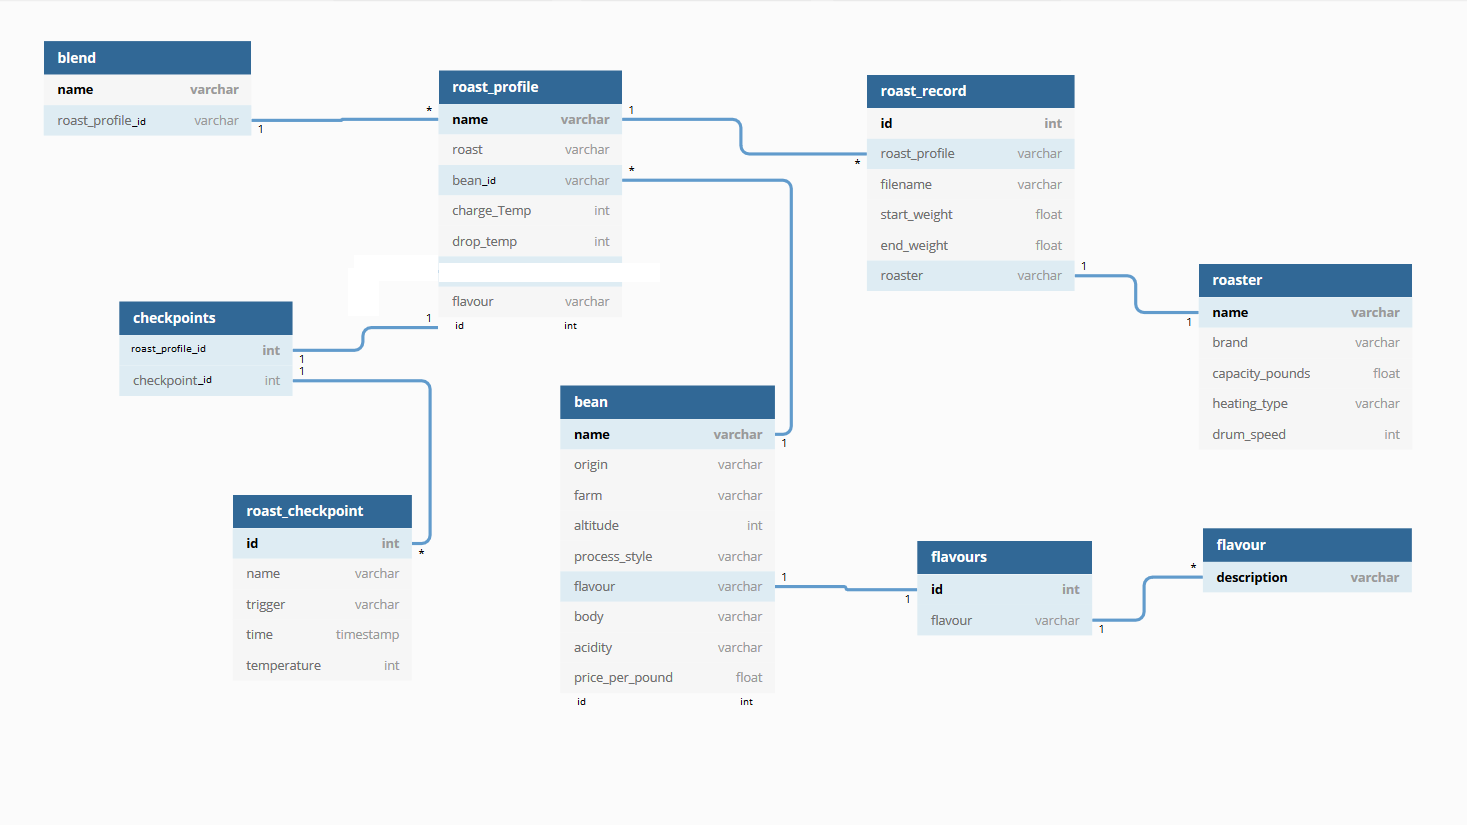
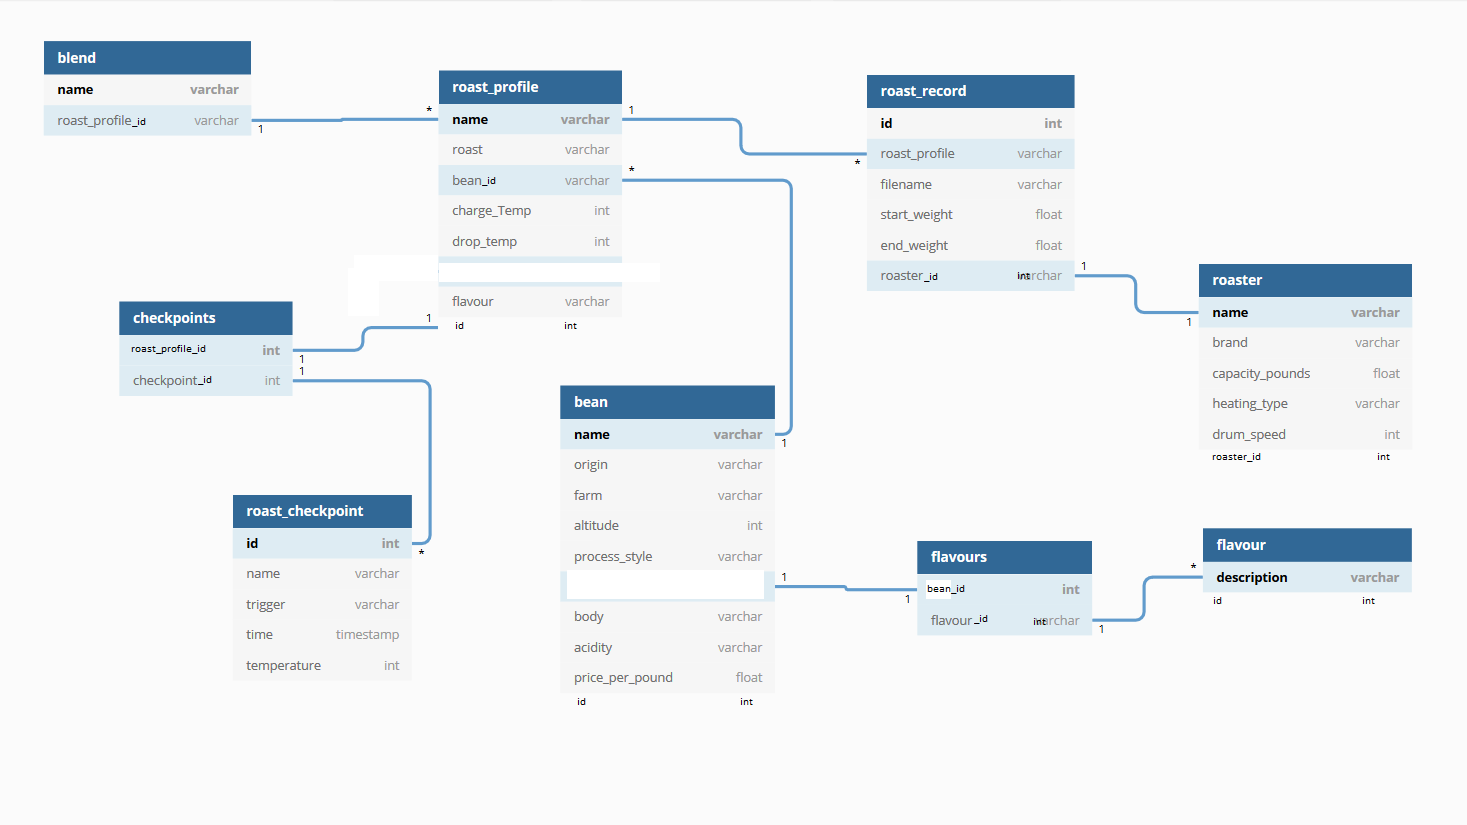
Added the function to add a Bean entry to database, and function to create List representing all Bean entries in database.

Changed region(s): [[0.3681, 0.6667, 0.5215, 0.7273], [0.6135, 0.697, 0.6748, 0.7273], [0.8282, 0.5455, 0.8589, 0.5758]]

diff --git a/app/src/main/java/Database/DatabaseHelper.java b/app/src/main/java/Database/DatabaseHelper.java
@@ -1,10 +1,22 @@
 package Database;
 
+import android.content.ContentValues;
 import android.content.Context;
+import android.database.Cursor;
 import android.database.sqlite.SQLiteDatabase;
 import android.database.sqlite.SQLiteOpenHelper;
+import android.nfc.Tag;
+import android.provider.ContactsContract;
+import android.util.Log;
+
+import java.lang.reflect.Array;
+import java.util.ArrayList;
+import java.util.Currency;
+import java.util.List;
 
 public class DatabaseHelper extends SQLiteOpenHelper {
+    private static DatabaseHelper dbInstance;
+
     //Database info
     private static final String DATABASE_NAME = "coffeeDatabase";
     private static final int DATABASE_VERSION = 1;
@@ -22,25 +34,25 @@ public class DatabaseHelper extends SQLiteOpenHelper {
 
     //---------Blend table columns------------
     private static final String KEY_BLEND_NAME = "name";
-    private static final String KEY_BLEND_ROAST_PROFILE_ID = "roast_profile_id";
+    private static final String KEY_BLEND_ROAST_PROFILE_ID_FK = "roast_profile_id";
 
     //---------roast_profile table columns------------
     private static final String KEY_ROAST_PROFILE_ID = "id";
     private static final String KEY_ROAST_PROFILE_NAME = "name";
     private static final String KEY_ROAST_PROFILE_ROAST = "roast";
-    private static final String KEY_ROAST_PROFILE_BEAN_ID = "bean_id";
+    private static final String KEY_ROAST_PROFILE_BEAN_ID_FK = "bean_id";
     private static final String KEY_ROAST_PROFILE_CHARGE_TEMP = "charge_temp";
     private static final String KEY_ROAST_PROFILE_DROP_TEMP = "drop_temp";
     private static final String KEY_ROAST_PROFILE_FLAVOUR = "flavour";
 
     //---------checkpoints table columns------------
-    private static final String KEY_CHECKPOINTS_ROAST_PROFILE_ID = "id";
-    private static final String KEY_CHECKPOINTS_CHECKPOINT = "checkpoint";
+    private static final String KEY_CHECKPOINTS_ROAST_PROFILE_ID_FK = "id";
+    private static final String KEY_CHECKPOINTS_CHECKPOINT_FK = "checkpoint";
 
     //---------roast_checkpoint table columns------------
     private static final String KEY_ROAST_CHECKPOINT_ID = "id";
     private static final String KEY_ROAST_CHECKPOINT_NAME = "name";
-    private static final String KEY_ROAST_CHECKPOINT_TRIGGER = "trigger";
+    private static final String KEY_ROAST_CHECKPOINT_TRIGGER = "check_trigger";
     private static final String KEY_ROAST_CHECKPOINT_TIME = "time";
     private static final String KEY_ROAST_CHECKPOINT_TEMPERATURE = "temperature";
 
@@ -58,13 +70,14 @@ public class DatabaseHelper extends SQLiteOpenHelper {
 
     //---------roast_record table columns------------
     private static final String KEY_ROAST_RECORD_ID = "id";
-    private static final String KEY_ROAST_RECORD_ROAST_PROFILE_ID = "roast_profile_id";
+    private static final String KEY_ROAST_RECORD_ROAST_PROFILE_ID_FK = "roast_profile_id";
     private static final String KEY_ROAST_RECORD_FILENAME = "filename";
     private static final String KEY_ROAST_RECORD_START_WEIGHT = "start_weight";
     private static final String KEY_ROAST_RECORD_END_WEIGHT = "end_weight";
-    private static final String KEY_ROAST_RECORD_ROASTER = "roaster";
+    private static final String KEY_ROAST_RECORD_ROASTER_ID = "roaster_id";
 
     //---------roaster table columns------------
+    private static final String KEY_ROASTER_ID = "id";
     private static final String KEY_ROASTER_NAME = "name";
     private static final String KEY_ROASTER_BRAND = "brand";
     private static final String KEY_ROASTER_CAPACITY_POUNDS = "capacity_pounds";
@@ -72,14 +85,28 @@ public class DatabaseHelper extends SQLiteOpenHelper {
     private static final String KEY_ROASTER_DRUM_SPEED = "drum_speed";
 
     //---------flavours table columns------------
-    private static final String KEY_FLAVOURS_ID = "id";
-    private static final String KEY_FLAVOURS_flavour = "flavour";
+    private static final String KEY_FLAVOURS_BEAN_ID = "bean_id";
+    private static final String KEY_FLAVOURS_FLAVOUR_ID_FK = "flavour_ID";
 
     //---------flavour table columns------------
+    private static final String KEY_FLAVOUR_ID = "id";
     private static final String KEY_FLAVOUR_DESCRIPTION = "description";
 
     private DatabaseHelper(Context context){
         super(context, DATABASE_NAME, null, DATABASE_VERSION);
+    }
+
+    /**
+     * Function for accessing the database. handles creation of new DatabaseHelper so that there is only one copy.
+     * Makes DatabaseHelper a singleton.
+     * @param context
+     * @return copy of the one DatabaseHelper object.
+     */
+    public static synchronized DatabaseHelper getInstance(Context context){
+        if(dbInstance==null){
+            dbInstance = new DatabaseHelper(context.getApplicationContext());
+        }
+        return dbInstance;
     }
 
     /**
@@ -95,10 +122,11 @@ public class DatabaseHelper extends SQLiteOpenHelper {
 
     @Override
     public void onCreate(SQLiteDatabase db) {
+        Log.i("Database", "Creating database...");
         String CREATE_BLEND_TABLE = "CREATE TABLE "+TABLE_BLEND+
                 "("+
                     KEY_BLEND_NAME + " TEXT," +
-                    KEY_BLEND_ROAST_PROFILE_ID + " TEXT" +
+                    KEY_BLEND_ROAST_PROFILE_ID_FK + " INTEGER REFERENCES " + TABLE_ROAST_PROFILE +
                 ")";
 
         String CREATE_ROAST_PROFILE_TABLE = "CREATE TABLE "+TABLE_ROAST_PROFILE+
@@ -106,7 +134,7 @@ public class DatabaseHelper extends SQLiteOpenHelper {
                     KEY_ROAST_PROFILE_ID + " INTEGER PRIMARY KEY," +
                     KEY_ROAST_PROFILE_NAME + " TEXT," +
                     KEY_ROAST_PROFILE_ROAST + " TEXT," +
-                    KEY_ROAST_PROFILE_BEAN_ID + " INTEGER REFERENCES "+TABLE_BEAN+","+
+                    KEY_ROAST_PROFILE_BEAN_ID_FK + " INTEGER REFERENCES "+TABLE_BEAN+","+
                     KEY_ROAST_PROFILE_CHARGE_TEMP + " INTEGER," +
                     KEY_ROAST_PROFILE_DROP_TEMP + " INTEGER,"+
                     KEY_ROAST_PROFILE_FLAVOUR+" FLAVOUR"+
@@ -114,15 +142,156 @@ public class DatabaseHelper extends SQLiteOpenHelper {
 
         String CREATE_CHECKPOINTS_TABLE = "CREATE TABLE "+TABLE_CHECKPOINTS+
                 "("+
-                    KEY_ROAST_PROFILE_ID + "INTEGER REFERENCES "+TABLE_ROAST_PROFILE+
-                    KEY_ROAST_CHECKPOINT_ID + "INTEGER REFERENCES "+TABLE_ROAST_CHECKPOINT+
+                    KEY_CHECKPOINTS_ROAST_PROFILE_ID_FK + " INTEGER REFERENCES "+TABLE_ROAST_PROFILE+","+
+                    KEY_CHECKPOINTS_CHECKPOINT_FK + " INTEGER REFERENCES "+TABLE_ROAST_CHECKPOINT+
                 ")";
 
-        
+        String  CREATE_ROAST_CHECKPOINT_TABLE = "CREATE TABLE "+TABLE_ROAST_CHECKPOINT+
+                "("+
+                    KEY_ROAST_CHECKPOINT_ID+" INTEGER PRIMARY KEY,"+
+                    KEY_ROAST_CHECKPOINT_NAME+" TEXT,"+
+                    KEY_ROAST_CHECKPOINT_TRIGGER+" TEXT,"+
+                    KEY_ROAST_CHECKPOINT_TIME+" INTEGER,"+
+                    KEY_ROAST_CHECKPOINT_TEMPERATURE+" INTEGER"+
+                ")";
+
+        String CREATE_BEAN_TABLE = "CREATE TABLE "+TABLE_BEAN+
+                "("+
+                    KEY_BEAN_ID+" INTEGER PRIMARY KEY,"+
+                    KEY_BEAN_NAME+" TEXT,"+
+                    KEY_BEAN_ORIGIN+" TEXT,"+
+                    KEY_BEAN_FARM+" TEXT,"+
+                    KEY_BEAN_ALTITUDE+" INTEGER,"+
+                    KEY_BEAN_PROCESS_STYLE+" TEXT,"+
+                    KEY_BEAN_FLAVOUR+" TEXT,"+
+                    KEY_BEAN_BODY+" TEXT,"+
+                    KEY_BEAN_ACIDITY+" TEXT,"+
+                    KEY_BEAN_PRICE_PER_POUND+" DECIMAL"+
+                ")";
+
+        String CREATE_ROAST_RECORD_TABLE = "CREATE TABLE "+TABLE_ROAST_RECORD+
+                "("+
+                    KEY_ROAST_RECORD_ID+" INTEGER PRIMARY KEY,"+
+                    KEY_ROAST_RECORD_ROAST_PROFILE_ID_FK+" INTEGER REFERENCES "+TABLE_ROAST_PROFILE+","+
+                    KEY_ROAST_RECORD_FILENAME+" TEXT,"+
+                    KEY_ROAST_RECORD_START_WEIGHT+" DECIMAL,"+
+                    KEY_ROAST_RECORD_END_WEIGHT+" DECIMAL,"+
+                    KEY_ROAST_RECORD_ROASTER_ID+" INTEGER REFERENCES "+KEY_ROASTER_ID+
+                ")";
+
+        String CREATE_ROASTER_TABLE = "CREATE TABLE "+TABLE_ROASTER+
+                "("+
+                    KEY_ROASTER_ID+" INTEGER PRIMARY KEY,"+
+                    KEY_ROASTER_NAME+" TEXT,"+
+                    KEY_ROASTER_BRAND+" TEXT,"+
+                    KEY_ROASTER_CAPACITY_POUNDS+" DECIMAL,"+
+                    KEY_ROASTER_HEATING_TYPE+" TEXT,"+
+                    KEY_ROASTER_DRUM_SPEED+" DECIMAL"+
+                ")";
+
+        String CREATE_FLAVOURS_TABLE = "CREATE TABLE "+TABLE_FLAVOURS+
+                "("+
+                    KEY_FLAVOURS_BEAN_ID+" INTEGER,"+
+                    KEY_FLAVOURS_FLAVOUR_ID_FK+" INTEGER REFERENCES "+TABLE_FLAVOUR+
+                ")";
+
+
+        String CREATE_FLAVOUR_TABLE = "CREATE TABLE "+TABLE_FLAVOUR+
+                "("+
+                    KEY_FLAVOUR_ID+" INTEGER PRIMARY KEY,"+
+                    KEY_FLAVOUR_DESCRIPTION+" TEXT"+
+                ")";
+
+        db.execSQL(CREATE_BLEND_TABLE);
+        db.execSQL(CREATE_ROAST_PROFILE_TABLE);
+        db.execSQL(CREATE_CHECKPOINTS_TABLE);
+        db.execSQL(CREATE_ROAST_CHECKPOINT_TABLE);
+        db.execSQL(CREATE_BEAN_TABLE);
+        db.execSQL(CREATE_ROAST_RECORD_TABLE);
+        db.execSQL(CREATE_ROASTER_TABLE);
+        db.execSQL(CREATE_FLAVOURS_TABLE);
+        db.execSQL(CREATE_FLAVOUR_TABLE);
+
+        Log.i("Database", "Database created.");
     }
 
     @Override
     public void onUpgrade(SQLiteDatabase db, int oldVersion, int newVersion) {
+        if(oldVersion!=newVersion){
+            Log.i("Database", "Database upgrading...");
+            db.execSQL("DROP TABLE IF EXISTS "+TABLE_BLEND);
+            db.execSQL("DROP TABLE IF EXISTS "+TABLE_ROAST_PROFILE);
+            db.execSQL("DROP TABLE IF EXISTS "+TABLE_CHECKPOINTS);
+            db.execSQL("DROP TABLE IF EXISTS "+TABLE_ROAST_CHECKPOINT);
+            db.execSQL("DROP TABLE IF EXISTS "+TABLE_BEAN);
+            db.execSQL("DROP TABLE IF EXISTS "+TABLE_ROAST_RECORD);
+            db.execSQL("DROP TABLE IF EXISTS "+TABLE_ROASTER);
+            db.execSQL("DROP TABLE IF EXISTS "+TABLE_FLAVOURS);
+            db.execSQL("DROP TABLE IF EXISTS "+TABLE_FLAVOUR);
 
+            onCreate(db);
+            Log.i("Database", "Database upgrade complete.");
+        }
+    }
+
+    /**
+     * Add a Bean object to the database.
+     * @param bean object to be added to the database.
+     */
+    public void addBean(Bean bean){
+        Log.i("Database", "Adding bean entry to database...");
+        //Create or open database for writing
+        SQLiteDatabase db = getWritableDatabase();
+
+        db.beginTransaction();
+        try{
+            ContentValues values = new ContentValues();
+            values.put(KEY_BEAN_NAME, bean.name);
+            values.put(KEY_BEAN_ORIGIN, bean.origin);
+            values.put(KEY_BEAN_FARM, bean.farm);
+            values.put(KEY_BEAN_ALTITUDE, bean.altitude);
+            values.put(KEY_BEAN_PROCESS_STYLE, bean.process);
+            values.put(KEY_BEAN_FLAVOUR, bean.flavours);
+            values.put(KEY_BEAN_BODY, bean.body);
+            values.put(KEY_BEAN_ACIDITY, bean.acidity);
+            values.put(KEY_BEAN_PRICE_PER_POUND, bean.pricePerPound);
+
+            db.insertOrThrow(TABLE_BEAN, null, values);
+            db.setTransactionSuccessful();
+        }catch (Exception e){
+            Log.d("Database", "Error adding bean entry to database. "+e.getMessage());
+        }finally {
+            db.endTransaction();
+        }
+    }
+
+    /**
+     * Get a list of all Bean objects contained in the database.
+     * @return List of Bean objects.
+     */
+    public List<Bean> getAllBeans(){
+        List<Bean> beans = new ArrayList<Bean>();
+
+        String BEAN_SELECT_QUERY =
+                String.format("SELECT * FROM %s", TABLE_BEAN);
+
+        SQLiteDatabase db = getReadableDatabase();
+        Cursor cursor = db.rawQuery(BEAN_SELECT_QUERY, null);
+        try{
+            if(cursor.moveToFirst()){
+                do {
+                    Bean bean = new Bean();
+                    bean.name = cursor.getString(cursor.getColumnIndex(KEY_BEAN_NAME));
+
+                    beans.add(bean);
+                }while(cursor.moveToNext());
+            }
+        }catch (Exception e) {
+            Log.d("Database", "Error getting bean from database. " + e.getMessage());
+        }finally {
+            if(cursor!=null&&cursor.isClosed())
+                cursor.close();
+        }
+        return beans;
     }
 }

diff --git a/app/src/main/java/com/example/roastingassistant/user_interface/MainActivity.java b/app/src/main/java/com/example/roastingassistant/user_interface/MainActivity.java
@@ -9,10 +9,18 @@ import com.google.android.material.tabs.TabLayout;
 import androidx.viewpager.widget.ViewPager;
 import androidx.appcompat.app.AppCompatActivity;
 
+import android.util.Log;
 import android.widget.ArrayAdapter;
 import android.widget.Spinner;
 
 import com.example.roastingassistant.user_interface.main.SectionsPagerAdapter;
+
+import java.lang.reflect.Array;
+import java.util.ArrayList;
+import java.util.List;
+
+import Database.Bean;
+import Database.DatabaseHelper;
 
 /**
  * Main menu of the app.
@@ -38,15 +46,26 @@ public class MainActivity extends AppCompatActivity {
         // Apply the adapter to the spinner
         spinner.setAdapter(adapter);
 
-//        FloatingActionButton fab = findViewById(R.id.fab);
-//
-//        fab.setOnClickListener(new View.OnClickListener() {
-//            @Override
-//            public void onClick(View view) {
-//                Snackbar.make(view, "Replace with your own action", Snackbar.LENGTH_LONG)
-//                        .setAction("Action", null).show();
-//            }
-//        });
+        deleteDatabase("coffeeDatabase");//For testing purposes, delete database before use so that there is a fresh db.
+
+        DatabaseHelper db = DatabaseHelper.getInstance(this.getApplicationContext());
+        Bean bean = new Bean();
+        bean.name = "Brazil";
+        db.addBean(bean);
+        Bean bean2 = new Bean();
+        bean2.name = "Colombia";
+        db.addBean(bean2);
+        Bean bean3 = new Bean();
+        bean3.name = "Peru";
+        db.addBean(bean3);
+        Bean bean4 = new Bean();
+        bean4.name = "Ethiopia";
+        db.addBean(bean4);
+
+        ArrayList<Bean> beans = (ArrayList<Bean>) db.getAllBeans();
+        for(Bean b: beans){
+            Log.d("Database", b.name);
+        }
     }
 
     public void startRoastParamActivity(){

diff --git a/app/src/main/java/Database/Bean.java b/app/src/main/java/Database/Bean.java
@@ -9,4 +9,21 @@ public class Bean implements Serializable {
     public String dryingMethod;
     public String process;
     public String flavours;
+    public String altitude;
+    public String body;
+    public String acidity;
+    public float pricePerPound;
+
+    public Bean(){
+        name="";
+        origin="";
+        farm="";
+        dryingMethod="";
+        process="";
+        flavours="";
+        altitude="";
+        body="";
+        acidity="";
+        pricePerPound=0.0f;
+    }
 }

diff --git a/app/src/main/java/Database/Roast.java b/app/src/main/java/Database/Roast.java
@@ -14,7 +14,7 @@ public class Roast implements Serializable {
     public int dropTemp;
     public List<Checkpoint> checkpoints;
 
-    Roast(){
+    public Roast(){
         name="";
         bean=null;
         roastLevel="";
